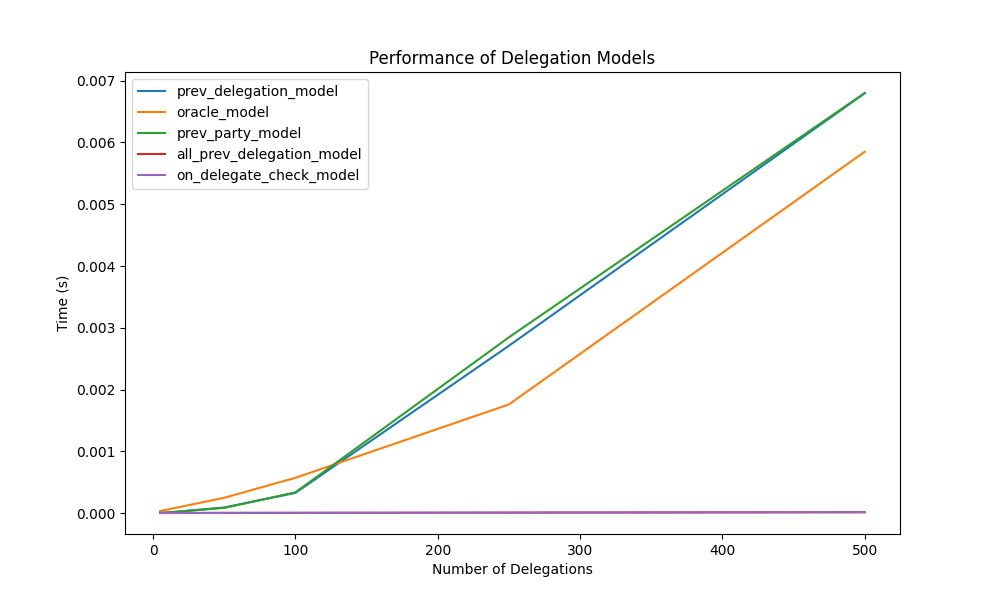
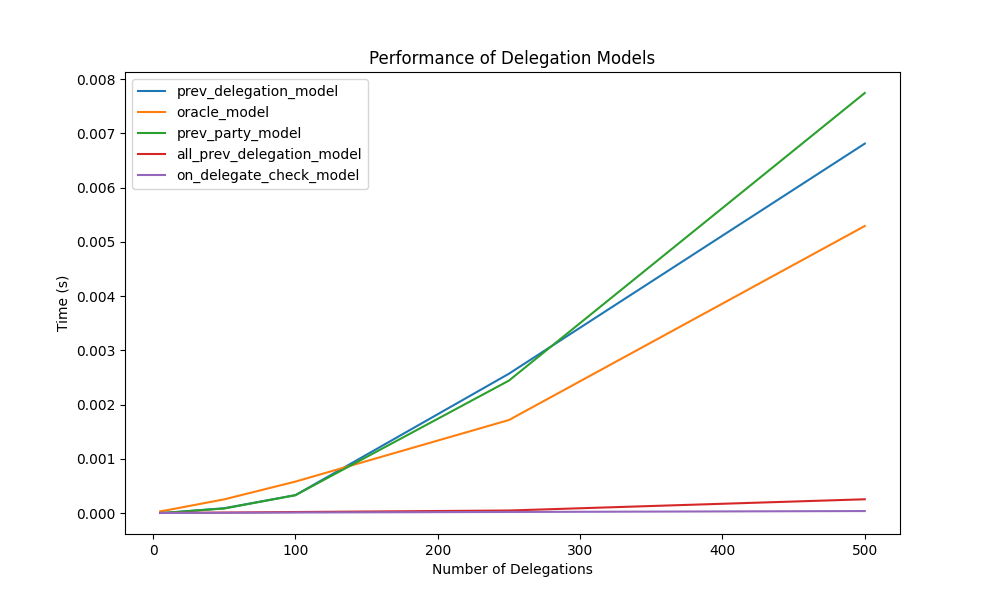
Fix issue where all_prev_delegation model functioned like on_delegate_only model

diff --git a/src/models/all_prev_delegations/service.py b/src/models/all_prev_delegations/service.py
@@ -59,21 +59,33 @@ class AllPrevDelegationsService(base_service.BaseService):
         """
         evidence_list = self.db.get_evidence_by_party(delegatee)
 
+        # TODO: check if this model is working correctly
         for evidence in evidence_list:
             if evidence.identifier in self.db.revocations:
                 continue
 
+            last_authorizes = None
             if self._is_evidence_for_search(evidence, object, action):
-                if evidence.issuer == data_owner:
+                if evidence.issuer == data_owner and evidence.receiver == delegatee:
                     return True
 
+                found_revocation = False
                 for prev_delegation in evidence.prev_delegations:
                     if prev_delegation.identifier in self.db.revocations:
-                        continue
+                        found_revocation = True
+                        break
 
                     if self._is_evidence_for_search(prev_delegation, object, action):
                         if prev_delegation.issuer == data_owner:
-                            return True
+                            last_authorizes = prev_delegation.receiver
+
+                        elif prev_delegation.issuer == last_authorizes:
+                            last_authorizes = prev_delegation.receiver
+                        else:
+                            break # Found invalid delegation link
+
+                if prev_delegation.receiver == evidence.issuer and not found_revocation:
+                    return True
 
         return False
 

diff --git a/src/tests/main.py b/src/tests/main.py
@@ -3,8 +3,13 @@ import inspect
 import json
 
 
+# TODO: Remove the database parameter, and instead put this directly in the services
+# TODO: Add a test for multiple databases
+# TODO: Extend the performance test to include more than just the relevant delegations
+
+
 class DelegationModelTests:
-    def __init__(self, db_class, service_class, performance_time_limit=0.1, performance_test_count=10):
+    def __init__(self, db_class, service_class, performance_time_limit=0.1, performance_test_count=15):
         self.db_class = db_class
         self.service = service_class(self.db_class())
         self.performance_time_limit = performance_time_limit
